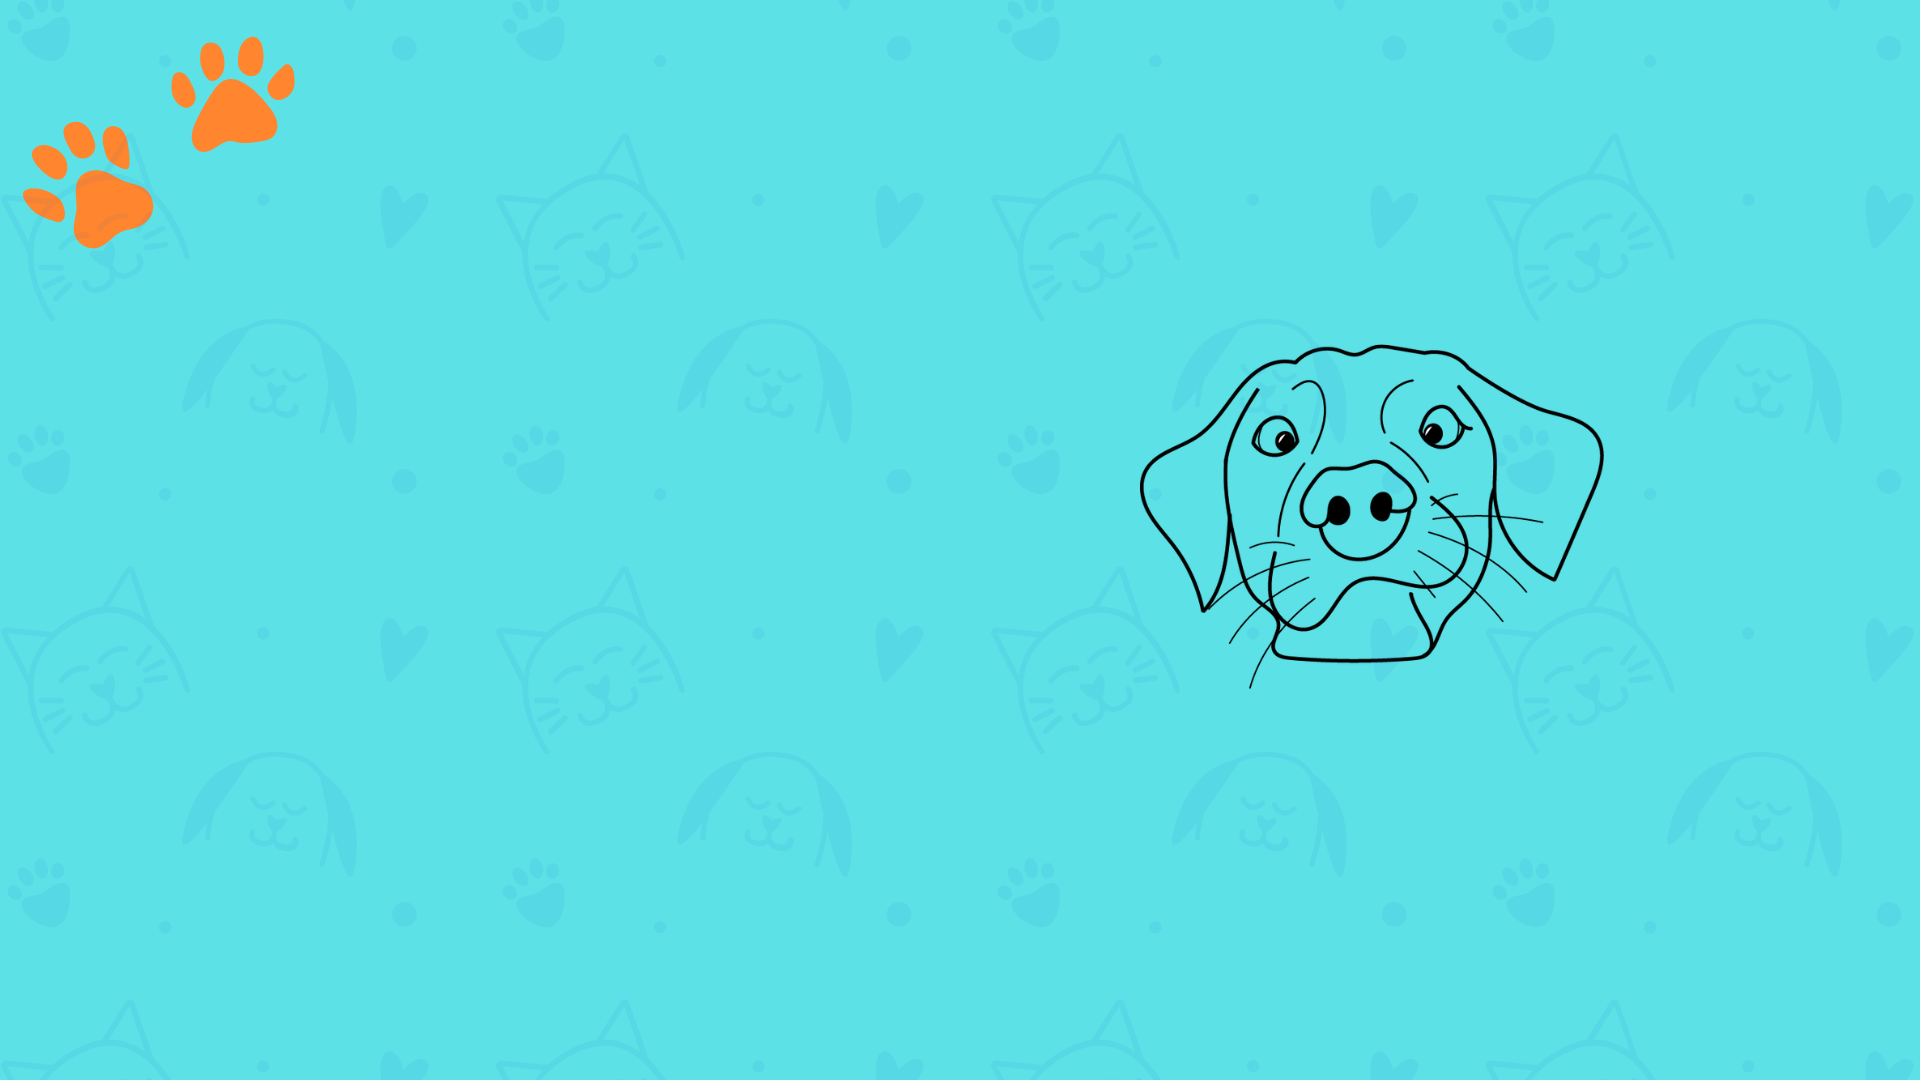
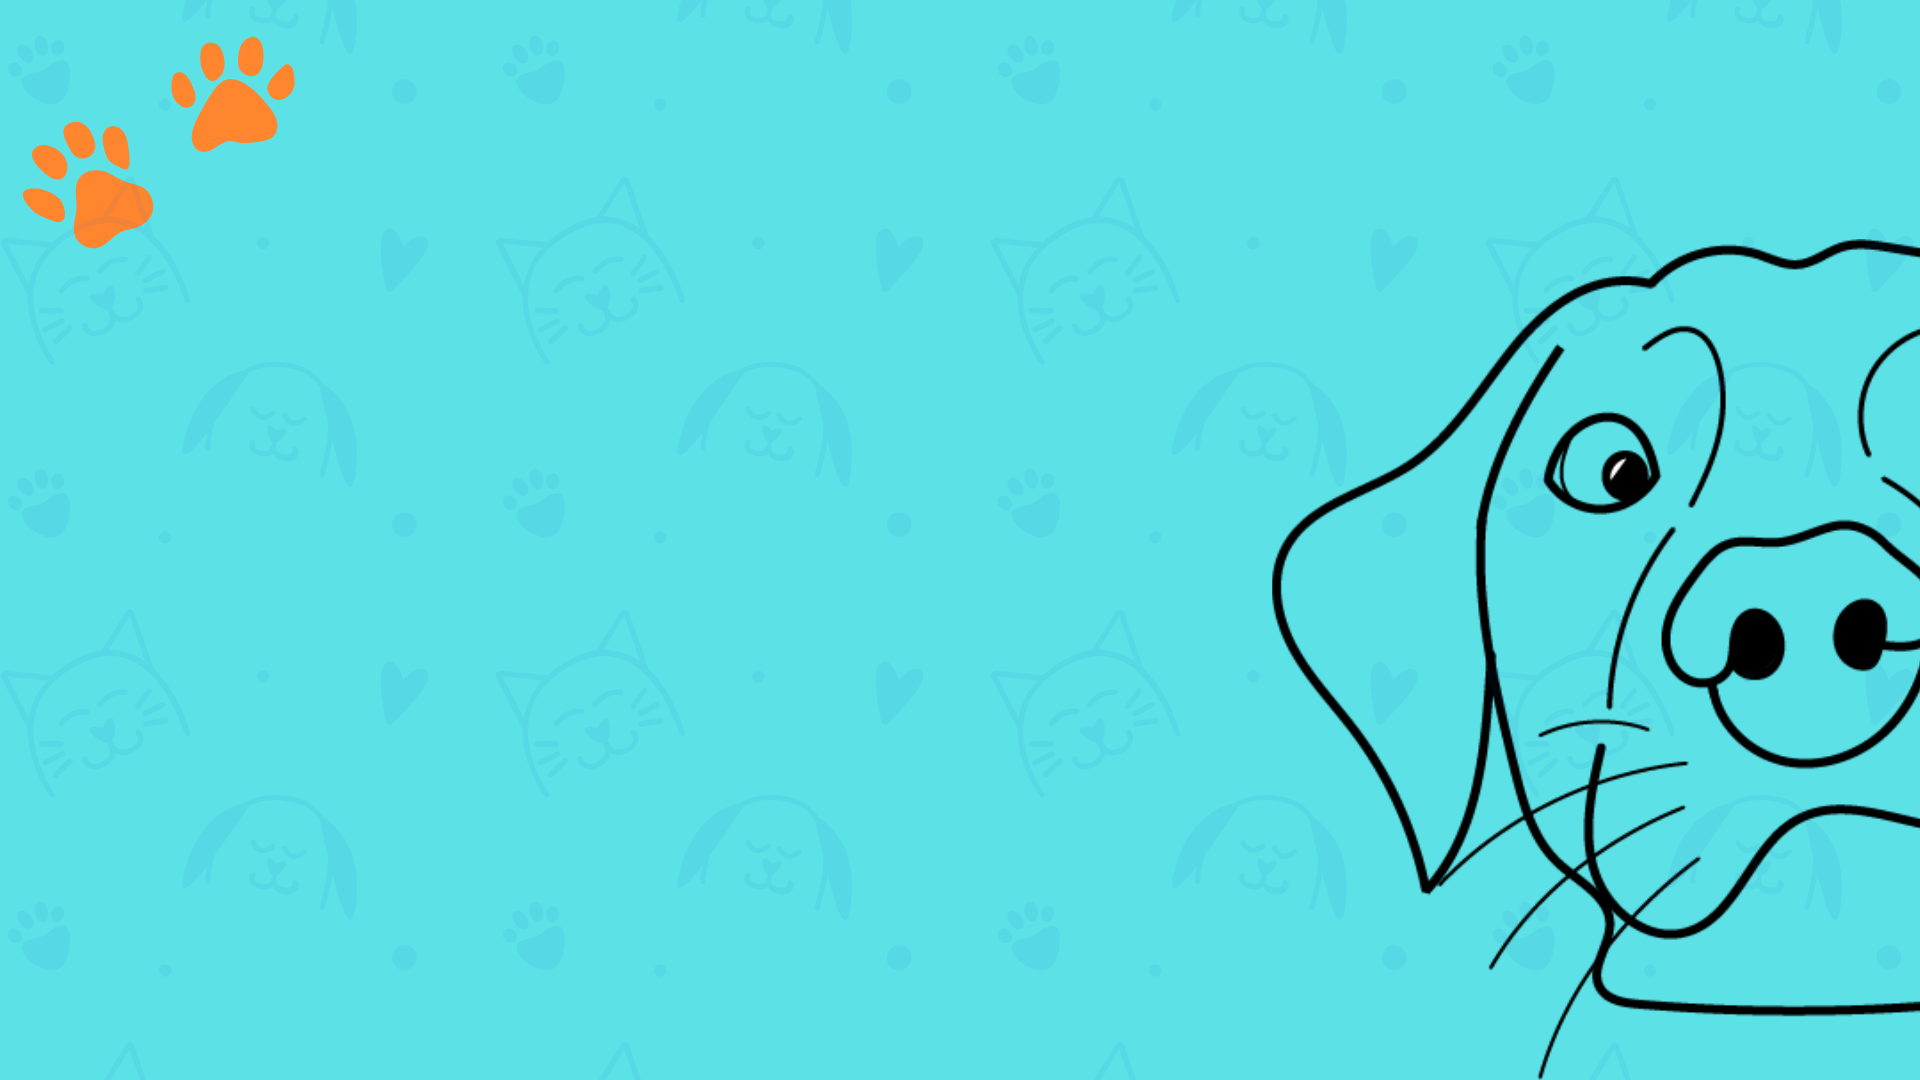
background.css file removed and added into background file

diff --git a/src/Components/shared/Background.jsx b/src/Components/shared/Background.jsx
@@ -1,9 +1,16 @@
 import React from 'react'
-import './Background.css'
+
 const Background = () => {
   return (
     
-    <div className="z-[-2] p-4 h-screen fixed top-0 w-full background">
+    <div
+    className="fixed top-0 w-full h-screen p-4 bg-cover bg-center sm-max:bg-custom-mobile sm-max:bg-no-repeat sm-max:bg-cover"
+      style={{
+        backgroundImage: "url('./images/background.png')",
+        backgroundRepeat: "no-repeat",
+        backgroundSize: "cover"
+      }}
+    >
     {/* <div className="absolute top-0 left-[-10%] w-1/2 z-0">
       <svg
         width="355"
